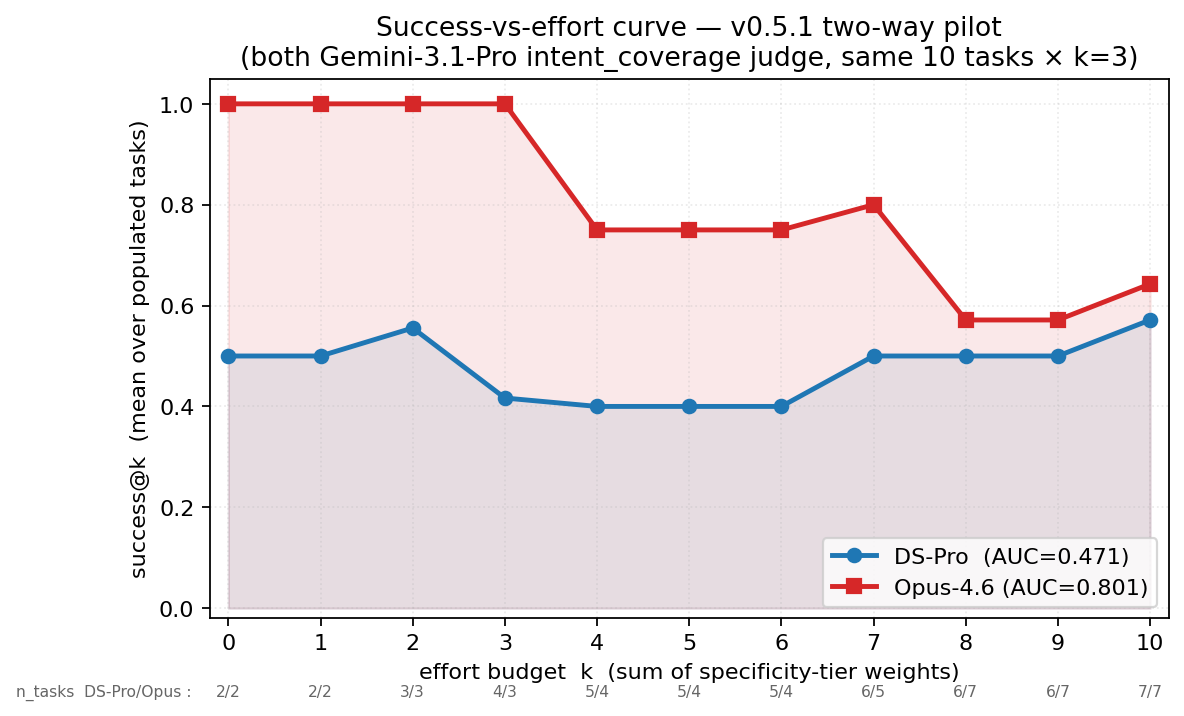
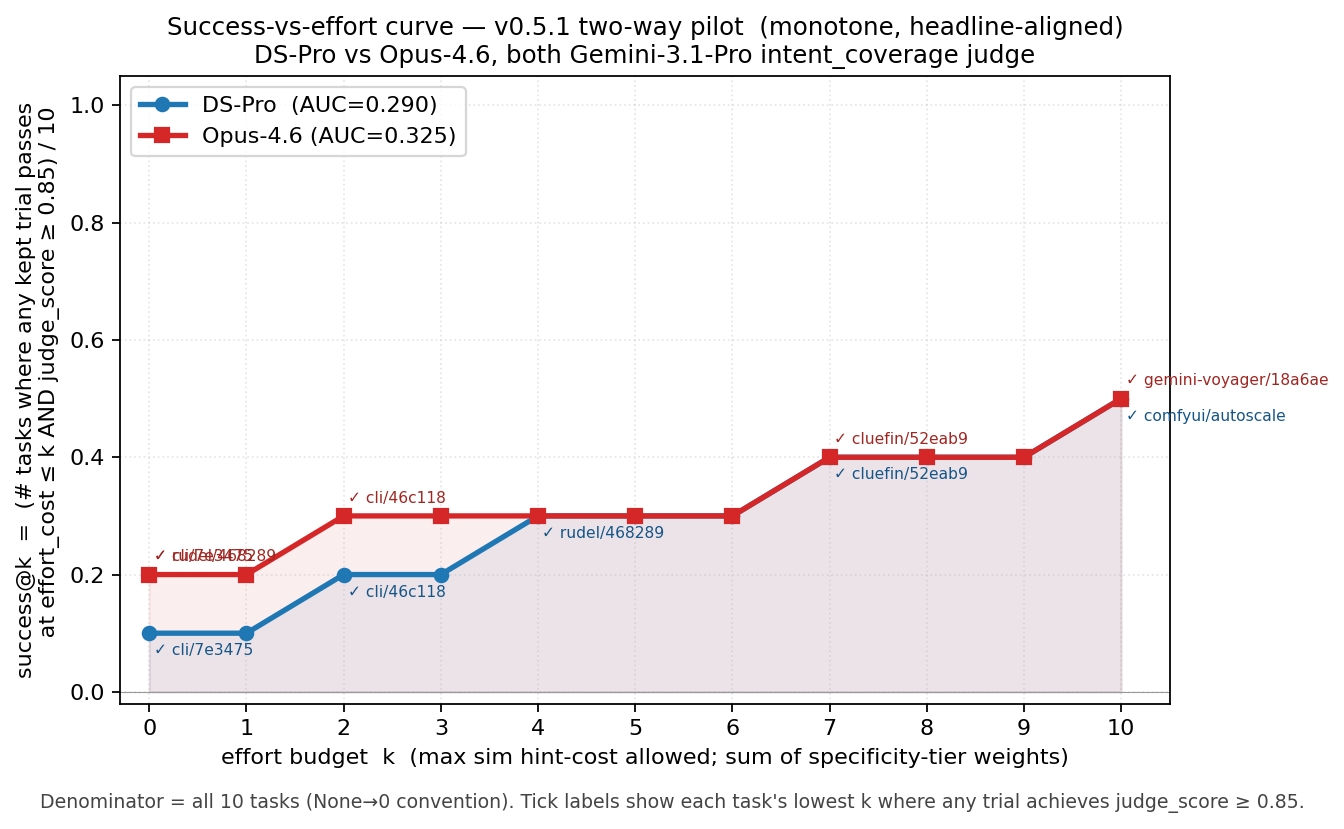
eval/pilot_study_two_way: switch curve to monotone (None→0) view
Original "populated tasks only" curve had a confusing non-monotone shape
(Opus's accuracy appeared to *drop* as k grew, even though more effort budget
should only help). That artifact came from the changing task pool: as k
widens, harder tasks join the population and drag the mean down. Not wrong
per se, but the wrong default visualization for "did model X solve more
tasks with budget B?"

Replaces with the **None→0 convention** (same one the headline
`effort_AUC_mean` uses):

  success@k = (# tasks where any kept trial passes at effort_cost ≤ k
               AND judge_score ≥ 0.85) / 10

Denominator is always all 10 tasks, so the curve is monotone non-decreasing.
Step-up points are annotated with the contributing task names, making it
easy to read which task crosses the success threshold at each k. Both
cohorts reach 0.50 at k=10 (5 of 10 tasks solved within budget); Opus-4.6
stays at or above DS-Pro at every k.

Legend AUC under the figure (trapezoidal over k∈[0,10]):
  DS-Pro   0.290
  Opus-4.6 0.325

Note these differ from the headline `effort_AUC_mean` (DS-Pro 0.221,
Opus-4.6 0.323) — the headline computes per-task AUC then averages
across 10 tasks, while this is the trapezoidal AUC of the already-aggregated
curve. Both rank Opus above DS-Pro by the same direction; the figure caption
documents the relationship.

Reproducer script `scripts/_plot_two_way_auc_curve.py` updated with the
new metric definition and step-point annotations.

diff --git a/eval/pilot_study_two_way.md b/eval/pilot_study_two_way.md
@@ -43,22 +43,24 @@ re-judged by the same v2 coverage prompt to keep `effort_cost` comparable.
 
 ![Success-vs-effort curve — DS-Pro vs Opus-4.6](pilot_study_two_way_curve.png)
 
-Cross-task mean `success@k` averaged across **populated tasks only** (where at
-least one kept trial has `effort_cost ≤ k`). `n_tasks` under each tick shows
-how many of the 10 tasks contribute to that point (DS-Pro / Opus-4.6).
-Reproduced by [scripts/_plot_two_way_auc_curve.py](../scripts/_plot_two_way_auc_curve.py).
+**`success@k`** = (# tasks where any kept trial has `effort_cost ≤ k` AND
+`judge_score ≥ 0.85`) / **10** (all tasks, None→0). The same convention the
+headline `effort_AUC_mean` uses — monotone non-decreasing in k, no
+sampling-bias surprises. Each tick label marks the smallest k where that
+task first contributes a passing trial. Reproduced by
+[scripts/_plot_two_way_auc_curve.py](../scripts/_plot_two_way_auc_curve.py).
 
-> **Two AUC conventions, two different numbers:**
-> - **Legend AUC** (figure) = area under the *cross-task mean curve* over k∈[0,10],
->   averaged across populated tasks only. DS-Pro 0.471, Opus-4.6 0.801. This is
->   what the figure visually integrates.
-> - **`effort_AUC_mean`** (headline table above) = per-task AUC where missing
->   points are zeroed, then averaged across **all 10 tasks**. DS-Pro 0.221,
->   Opus-4.6 0.323. This is the leaderboard metric — penalizes tasks where no
->   trial qualifies at any k ≤ 10.
->
-> Both rank Opus-4.6 above DS-Pro by the same direction and roughly the same
-> margin (0.330 vs 0.102); the figure is just a more legible aggregate.
+**How to read it:**
+- **Opus-4.6 is strictly above (or equal to) DS-Pro at every k.** It starts at
+  0.20 (two tasks pass at zero effort: `cli-task-7e3475` and `rudel-task-468289`)
+  vs DS-Pro's 0.10 (only `cli-task-7e3475` at zero effort).
+- **The gap is biggest at k=0..3**, where Opus has 2–3 tasks passing while
+  DS-Pro has 1–2. Both reach the same 0.50 ceiling at k=10 because both
+  pilots ultimately solve the same 5 of the 10 tasks within the 0–10 budget.
+- **AUC under each curve** (trapezoidal over k∈[0,10], normalized): DS-Pro
+  0.290, Opus-4.6 0.325. These slightly differ from the headline
+  `effort_AUC_mean` (0.221 / 0.323) because the headline uses a per-task AUC
+  before averaging; both rank Opus above DS-Pro by the same direction.
 
 **Reading the headline:**
 - **`mean_judge` is essentially identical** (Δ +0.02). Across the 10 tasks, both agents